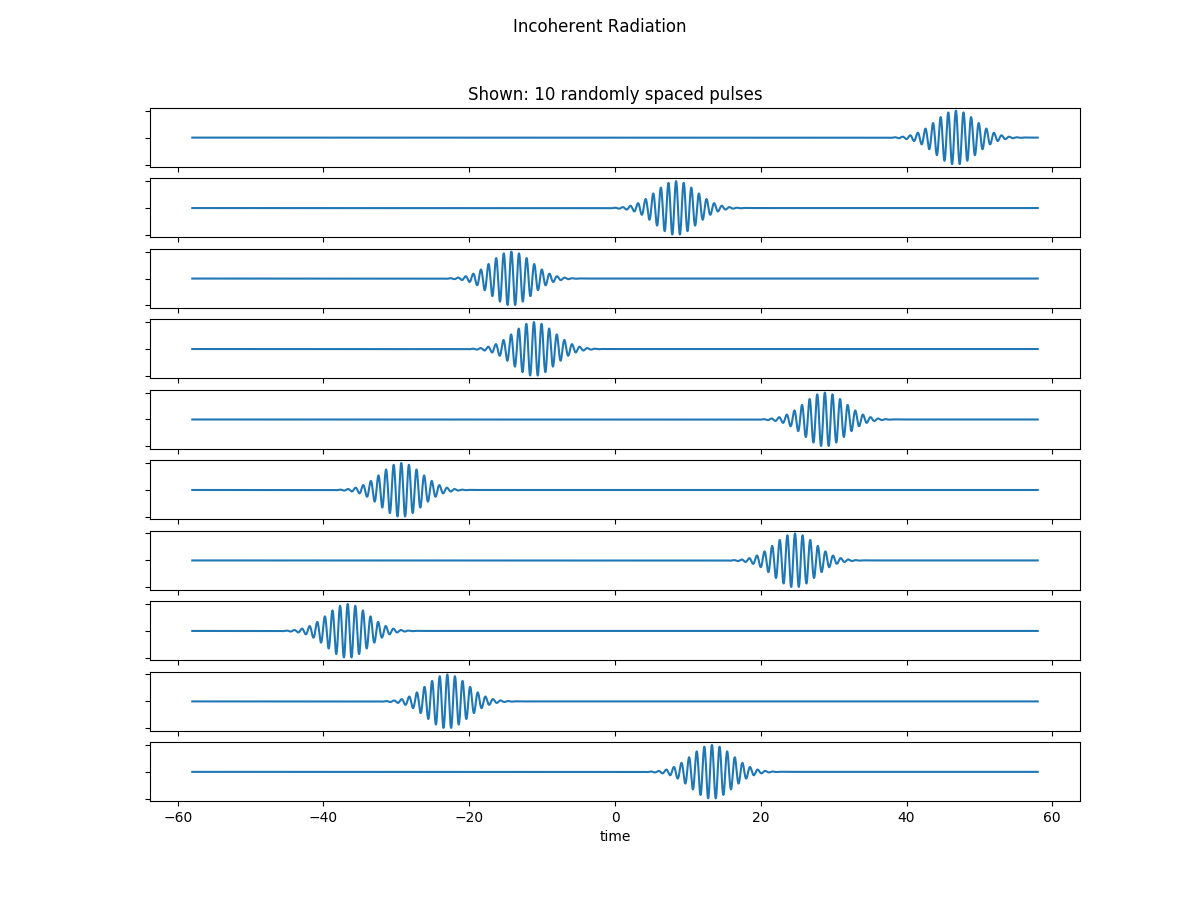
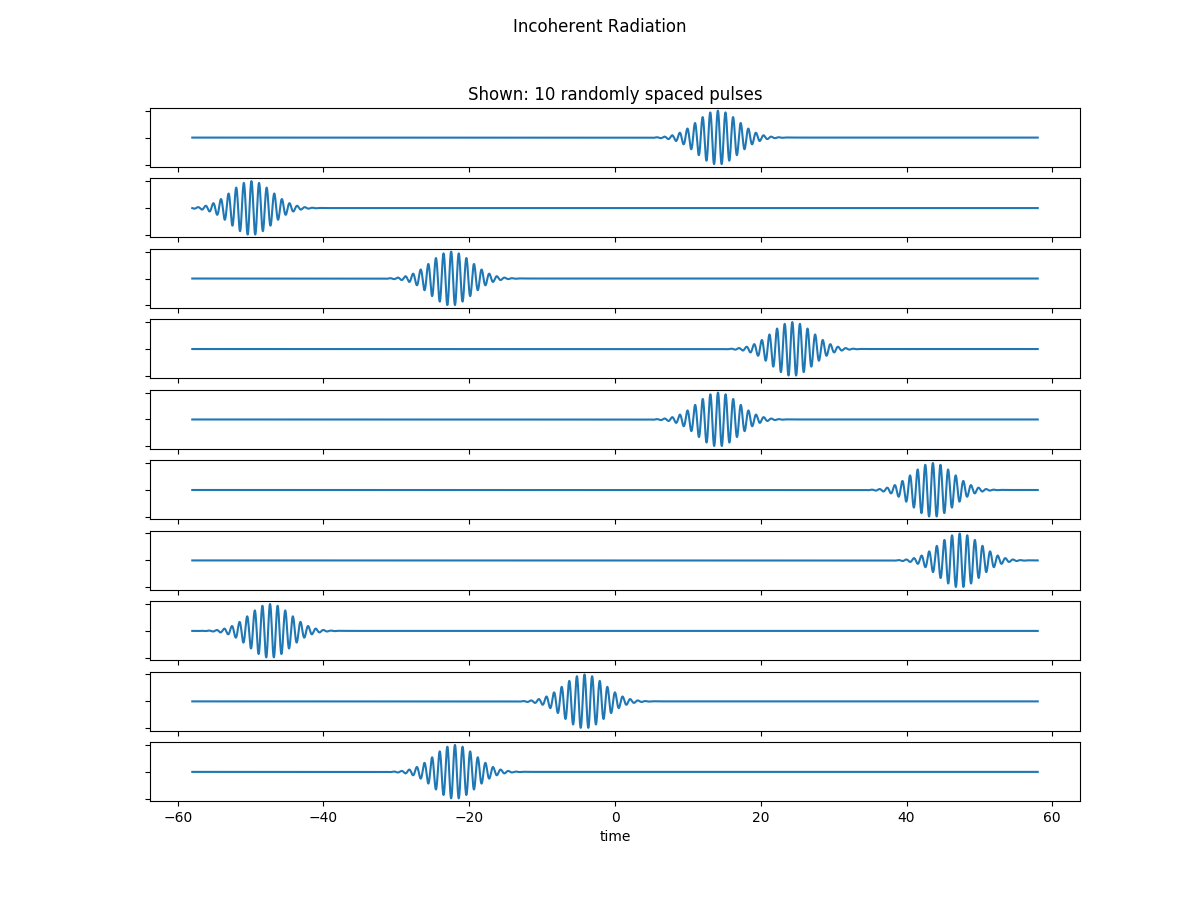
Added Fourier Transform of intensity spectrum

diff --git a/FEL/FEL_gaussian.py b/FEL/FEL_gaussian.py
@@ -52,12 +52,12 @@ class Temporal:
 			e_vals.append(self.incoherent_rad(t,tj,sigma,omega,bunch_length))
 		return {'x_vals':time_vals,'y_vals':e_vals,'label':'\u03C3 = {}, \u03C9 = {}'.format(sigma,omega)}
 		
-	def get_superposition(self,coherent_vals_list):
-		output_vals = np.zeros(shape=len(coherent_vals_list[0]['y_vals']))
-		for coherent_vals in coherent_vals_list:
-			output_vals += np.array(coherent_vals['y_vals'])
+	def get_superposition(self,incoherent_vals_list):
+		output_vals = np.zeros(shape=len(incoherent_vals_list[0]['y_vals']))
+		for incoherent_vals in incoherent_vals_list:
+			output_vals += np.array(incoherent_vals['y_vals'])
 		return {
-				'x_vals':coherent_vals_list[0]['x_vals'],
+				'x_vals':incoherent_vals_list[0]['x_vals'],
 				'y_vals':output_vals,
 				'label':None
 				}
@@ -78,6 +78,26 @@ class Temporal:
 		return M_L
 
 
+	def incoherent_rad_omega(self,tj,sigma,omega,bunch_length,omega1=None):
+		if omega1 == None:
+			omega1 = self.omega
+		sigma_FT = 1/(2*sigma)
+		return (np.exp(-((omega-omega1)**2)/(4*(sigma_FT**2))) * np.cos(omega*tj)) * (np.sqrt(np.pi)/sigma_FT) 
+	
+	def model_incoherent_rad_once_omega(self,bunch_length,sigma=None,omega1=None):
+		if sigma == None:
+			sigma = self.sigma
+		if omega1 == None:
+			omega1 = self.omega
+		omega_vals = np.linspace(omega1-1,omega1+1,5000)
+		e_vals = []
+		tj = random.uniform(-(bunch_length*0.5),(bunch_length*0.5))
+		for omega in omega_vals:
+			e_vals.append(self.incoherent_rad_omega(tj,sigma,omega,bunch_length))
+		delta_omega_vals = omega_vals - omega1
+		return {'x_vals':delta_omega_vals,'y_vals':e_vals,'label':'\u03C3 = {}, \u03C9$_1 = {}'.format(sigma,omega1)}
+		
+						
 #---------------------------------------------------------------------------------------------------
 
 
@@ -131,7 +151,7 @@ def SHOW_COHERENT_RADIATION():
 	coherent_vals0 = temp.model_coherent_rad_once()
 	coherent_vals1 = temp.model_coherent_rad_once()
 	plot_graph([coherent_vals0,coherent_vals1],'Coherent Radiation','Coherent Radiation','t',
-				'E/e','coherent_radiation')
+				'E/e$_0$','coherent_radiation')
 	
 	
 def SHOW_INCOHERENT_RADIATION(num_pulses,bunch_length=100,subplots=True,plot_superposition=True,plot_intensity=True):
@@ -145,7 +165,7 @@ def SHOW_INCOHERENT_RADIATION(num_pulses,bunch_length=100,subplots=True,plot_sup
 	if plot_superposition == True:
 		plot_graph([superposition_pulses],'Incoherent Radiation',
 					'Incoherent Radiation: Superposition of {} pulses'.format(num_pulses),
-					'time','E/e','incoherent_radiation_superposition_{}_pulses'.format(num_pulses))
+					'time','E/e$_0$','incoherent_radiation_superposition_{}_pulses'.format(num_pulses))
 	
 	intensity = temp.get_intensity(superposition_pulses)
 	if plot_intensity == True:
@@ -177,6 +197,25 @@ def INCOHERENT_AVERAGE_INTENSITY_VS_NUM_SOURCES(bunch_length=100):
 					'average_intensity_vs_num_pulses',scatter=True)
 	
 	
+def SHOW_INCOHERENT_RADIATION_OMEGA(num_pulses,bunch_length=100,plot_superposition=True,plot_intensity=True):
+	
+	incoherent_vals_list_omega = [temp.model_incoherent_rad_once_omega(bunch_length) for i in range(num_pulses)]
+		
+	superposition_pulses_omega = temp.get_superposition(incoherent_vals_list_omega)
+	if plot_superposition == True:
+		plot_graph([superposition_pulses_omega],'Incoherent Radiation',
+					'Incoherent Radiation: Superposition of {} pulses in terms of \u03C9'.format(num_pulses),
+					'\u03C9 - \u03C9$_1$','E/e$_0$','omega_incoherent_radiation_superposition_{}_pulses'.format(num_pulses))
+	#'E\u03C3/e$_0\sqrt{\u03C0}$'
+	intensity = temp.get_intensity(superposition_pulses_omega)
+	if plot_intensity == True:
+		plot_graph([intensity],'Incoherent Radiation Intensity Spectrum',
+					'Incoherent Radiation: Intensity spectrum for {} pulses in terms of \u03C9'.format(num_pulses),
+					'\u03C9 - \u03C9$_1$','P(\u03C9)','omega_intensity_incoherent_radiation_{}_pulses'.format(num_pulses))
+	
+	temp.get_num_l_modes(bunch_length)
+		
+
 #---------------------------------------------------------------------------------------------------
 	
 	
@@ -184,5 +223,5 @@ if __name__ == '__main__':
 	#SHOW_COHERENT_RADIATION()
 	SHOW_INCOHERENT_RADIATION(100,subplots=True,plot_superposition=True,plot_intensity=True)
 	#INCOHERENT_AVERAGE_INTENSITY_VS_NUM_SOURCES()
-	
+	SHOW_INCOHERENT_RADIATION_OMEGA(100,plot_superposition=True,plot_intensity=True)
 
